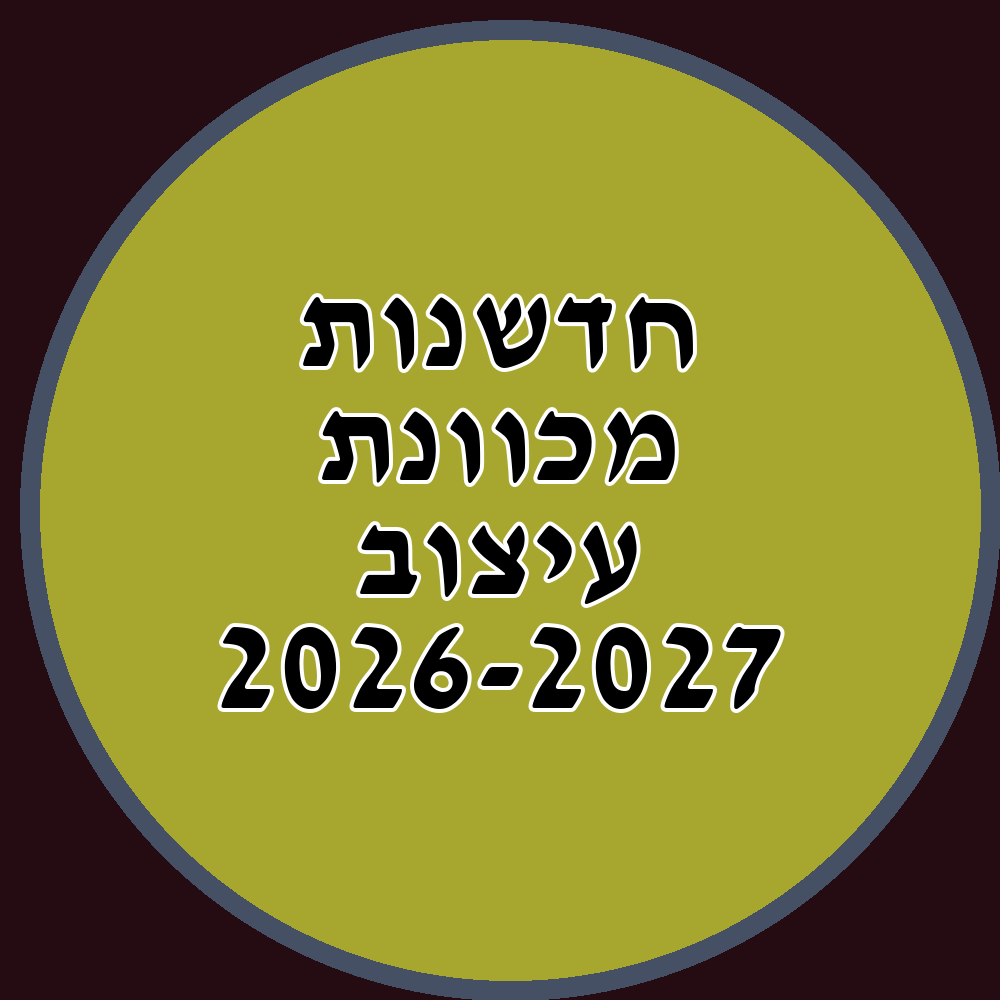
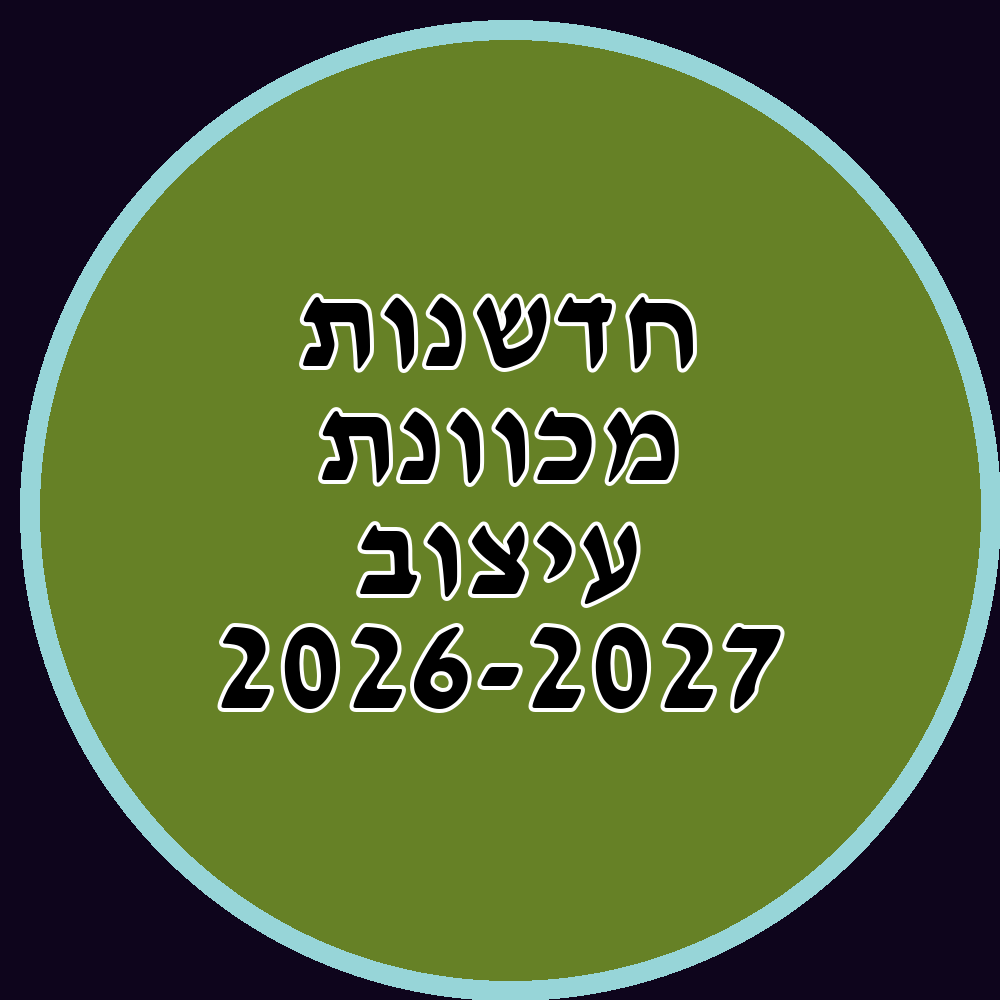
messing with the code again.

diff --git a/main.py b/main.py
@@ -261,4 +261,4 @@ def main(Year, FileName):
 
 
 
-main(2027, "Source")
+main(2027, "source.test")
